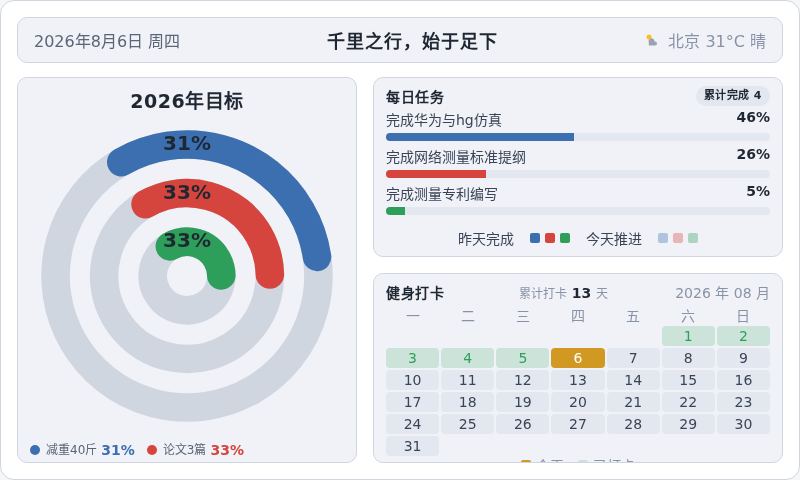
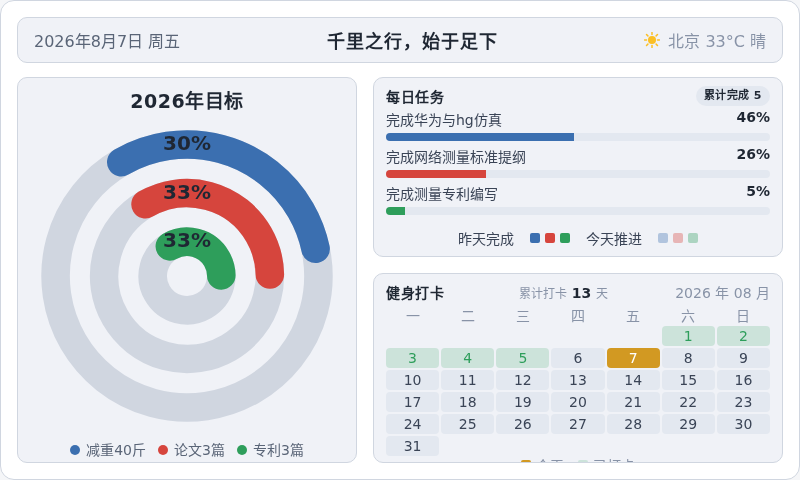
chore: 每日看板刷新 2026-08-07

diff --git a/output/dashboard.html b/output/dashboard.html
@@ -185,11 +185,11 @@
 <body>
   <div class="dash">
     <div class="topbar">
-      <div class="tb-date" id="tbDate">2026年8月6日 周四</div>
+      <div class="tb-date" id="tbDate">2026年8月7日 周五</div>
       <div class="tb-slogan">千里之行，始于足下</div>
       <div class="tb-weather">
-        <svg width="16" height="16" viewBox="0 0 16 16" aria-hidden="true"><path d="M5 11 a3 3 0 1 1 5.5 -1.5 h0.5 a2 2 0 1 1 0 4 H5 a2.5 2.5 0 0 1 0 -2.5z" fill="#9ca3af"/></svg>
-        <span>北京 33°C 多云</span>
+        <svg width="16" height="16" viewBox="0 0 16 16" aria-hidden="true"><circle cx="8" cy="8" r="4" fill="#fbbf24"/><g stroke="#fbbf24" stroke-width="1.5" stroke-linecap="round"><line x1="8" y1="0.5" x2="8" y2="2.5"/><line x1="8" y1="13.5" x2="8" y2="15.5"/><line x1="0.5" y1="8" x2="2.5" y2="8"/><line x1="13.5" y1="8" x2="15.5" y2="8"/><line x1="2.5" y1="2.5" x2="3.9" y2="3.9"/><line x1="12.1" y1="12.1" x2="13.5" y2="13.5"/><line x1="13.5" y1="2.5" x2="12.1" y2="3.9"/><line x1="3.9" y1="12.1" x2="2.5" y2="13.5"/></g></svg>
+        <span>北京 33°C 晴</span>
       </div>
     </div>
     <div class="content">
@@ -248,7 +248,7 @@
           <span class="cal-date">2026 年 08 月</span>
         </div>
         <div class="cal-grid wk"><span>一</span><span>二</span><span>三</span><span>四</span><span>五</span><span>六</span><span>日</span></div>
-        <div class="cal-grid"><span class="cell empty"></span><span class="cell empty"></span><span class="cell empty"></span><span class="cell empty"></span><span class="cell empty"></span><span class="cell done" style="background:rgba(46,158,91,0.18);color:#2e9e5b">1</span><span class="cell done" style="background:rgba(46,158,91,0.18);color:#2e9e5b">2</span><span class="cell done" style="background:rgba(46,158,91,0.18);color:#2e9e5b">3</span><span class="cell done" style="background:rgba(46,158,91,0.18);color:#2e9e5b">4</span><span class="cell done" style="background:rgba(46,158,91,0.18);color:#2e9e5b">5</span><span class="cell today" style="background:#d29922;color:#ffffff">6</span><span class="cell" style="background:#e3e8f0;color:#3a4456">7</span><span class="cell" style="background:#e3e8f0;color:#3a4456">8</span><span class="cell" style="background:#e3e8f0;color:#3a4456">9</span><span class="cell" style="background:#e3e8f0;color:#3a4456">10</span><span class="cell" style="background:#e3e8f0;color:#3a4456">11</span><span class="cell" style="background:#e3e8f0;color:#3a4456">12</span><span class="cell" style="background:#e3e8f0;color:#3a4456">13</span><span class="cell" style="background:#e3e8f0;color:#3a4456">14</span><span class="cell" style="background:#e3e8f0;color:#3a4456">15</span><span class="cell" style="background:#e3e8f0;color:#3a4456">16</span><span class="cell" style="background:#e3e8f0;color:#3a4456">17</span><span class="cell" style="background:#e3e8f0;color:#3a4456">18</span><span class="cell" style="background:#e3e8f0;color:#3a4456">19</span><span class="cell" style="background:#e3e8f0;color:#3a4456">20</span><span class="cell" style="background:#e3e8f0;color:#3a4456">21</span><span class="cell" style="background:#e3e8f0;color:#3a4456">22</span><span class="cell" style="background:#e3e8f0;color:#3a4456">23</span><span class="cell" style="background:#e3e8f0;color:#3a4456">24</span><span class="cell" style="background:#e3e8f0;color:#3a4456">25</span><span class="cell" style="background:#e3e8f0;color:#3a4456">26</span><span class="cell" style="background:#e3e8f0;color:#3a4456">27</span><span class="cell" style="background:#e3e8f0;color:#3a4456">28</span><span class="cell" style="background:#e3e8f0;color:#3a4456">29</span><span class="cell" style="background:#e3e8f0;color:#3a4456">30</span><span class="cell" style="background:#e3e8f0;color:#3a4456">31</span></div>
+        <div class="cal-grid"><span class="cell empty"></span><span class="cell empty"></span><span class="cell empty"></span><span class="cell empty"></span><span class="cell empty"></span><span class="cell done" style="background:rgba(46,158,91,0.18);color:#2e9e5b">1</span><span class="cell done" style="background:rgba(46,158,91,0.18);color:#2e9e5b">2</span><span class="cell done" style="background:rgba(46,158,91,0.18);color:#2e9e5b">3</span><span class="cell done" style="background:rgba(46,158,91,0.18);color:#2e9e5b">4</span><span class="cell done" style="background:rgba(46,158,91,0.18);color:#2e9e5b">5</span><span class="cell" style="background:#e3e8f0;color:#3a4456">6</span><span class="cell today" style="background:#d29922;color:#ffffff">7</span><span class="cell" style="background:#e3e8f0;color:#3a4456">8</span><span class="cell" style="background:#e3e8f0;color:#3a4456">9</span><span class="cell" style="background:#e3e8f0;color:#3a4456">10</span><span class="cell" style="background:#e3e8f0;color:#3a4456">11</span><span class="cell" style="background:#e3e8f0;color:#3a4456">12</span><span class="cell" style="background:#e3e8f0;color:#3a4456">13</span><span class="cell" style="background:#e3e8f0;color:#3a4456">14</span><span class="cell" style="background:#e3e8f0;color:#3a4456">15</span><span class="cell" style="background:#e3e8f0;color:#3a4456">16</span><span class="cell" style="background:#e3e8f0;color:#3a4456">17</span><span class="cell" style="background:#e3e8f0;color:#3a4456">18</span><span class="cell" style="background:#e3e8f0;color:#3a4456">19</span><span class="cell" style="background:#e3e8f0;color:#3a4456">20</span><span class="cell" style="background:#e3e8f0;color:#3a4456">21</span><span class="cell" style="background:#e3e8f0;color:#3a4456">22</span><span class="cell" style="background:#e3e8f0;color:#3a4456">23</span><span class="cell" style="background:#e3e8f0;color:#3a4456">24</span><span class="cell" style="background:#e3e8f0;color:#3a4456">25</span><span class="cell" style="background:#e3e8f0;color:#3a4456">26</span><span class="cell" style="background:#e3e8f0;color:#3a4456">27</span><span class="cell" style="background:#e3e8f0;color:#3a4456">28</span><span class="cell" style="background:#e3e8f0;color:#3a4456">29</span><span class="cell" style="background:#e3e8f0;color:#3a4456">30</span><span class="cell" style="background:#e3e8f0;color:#3a4456">31</span></div>
         <div class="cal-legend">
           <span style="color:#8893a7"><i class="sw" style="background:#d29922"></i>今天</span>
           <span style="color:#8893a7"><i class="sw" style="background:rgba(46,158,91,0.18)"></i>已打卡</span>
